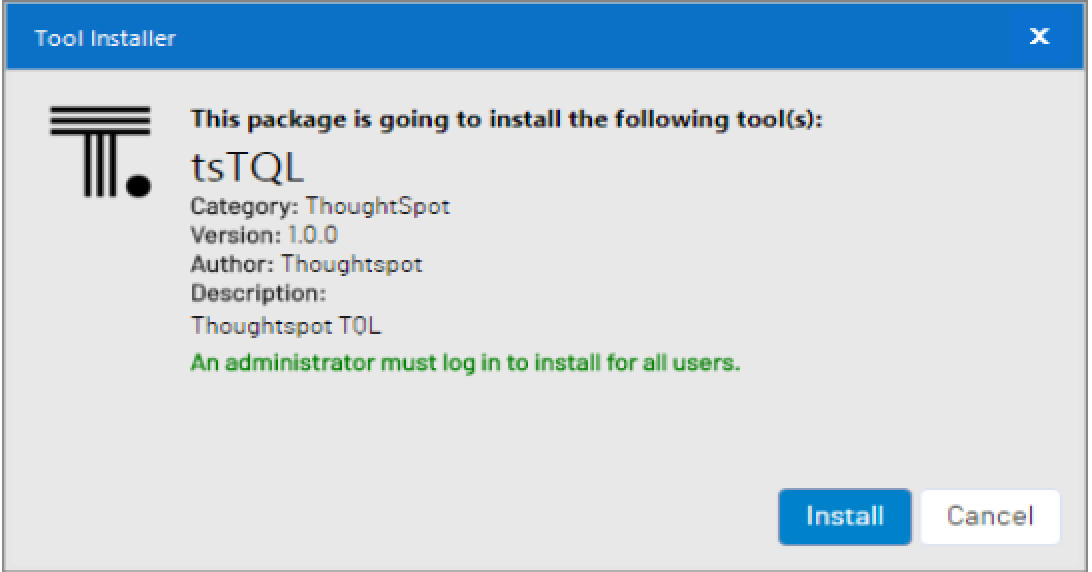
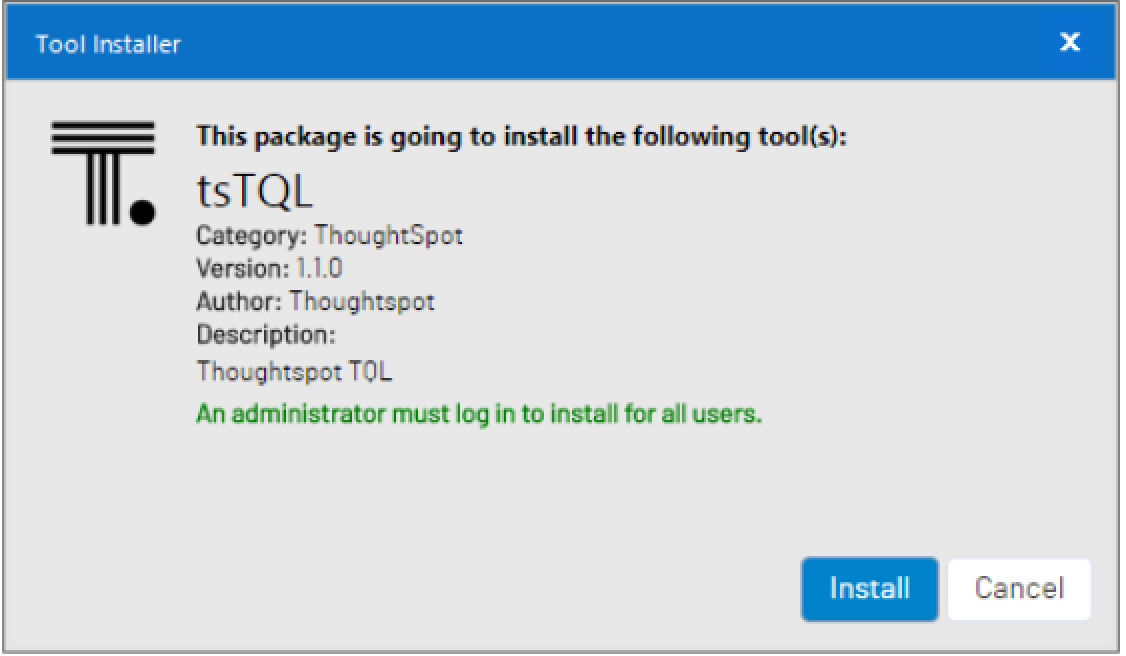
version 1.1

Changed region(s): [[0.0, 0.0, 0.9963, 1.0], [0.1557, 0.2675, 0.685, 0.6538], [0.0311, 0.1783, 0.7473, 0.3566]]

diff --git a/Alteryx_TQL/Code/tsTQL/classes/sshClient.py b/Alteryx_TQL/Code/tsTQL/classes/sshClient.py
@@ -16,6 +16,8 @@ class sshClient(object):
         self.bufsize = 655360
         self.verbose = verbose
         self.logger = None
+        self.status = None
+        self.response = None
         self.__fetch__sshClient()
 
     def __repr__(self):
@@ -43,21 +45,30 @@ class sshClient(object):
             self.transport.window_size = 4294967294
             self.transport.use_compression(self.compress)
             self.transport.set_keepalive(60)
-            self.info('succeeded: %s@%s:%d' % (self.username,
-                                               self.hostname,
-                                               self.port))
+            responsetxt = ('succeeded: %s@%s:%d' % (self.username,
+                                                    self.hostname,
+                                                    self.port))
+            self.info(responsetxt)
+            self.response = responsetxt
+            self.status = "Good"
         except socket.error as e:
             self.transport = None
-            self.info('failed: %s@%s:%d: %s' % (self.username,
-                                                self.hostname,
-                                                self.port,
-                                                str(e)))
-        except paramiko.BadAuthenticationType as e:
+            responsetxt = ('Failed to Connect: %s@%s:%d: %s' % (self.username,
+                                                                self.hostname,
+                                                                self.port,
+                                                                str(e)))
+            self.info(responsetxt)
+            self.response = responsetxt
+            self.status = "Bad"
+        except paramiko.AuthenticationException as e:
             self.transport = None
-            self.info('failed: %s@%s:%d: %s' % (self.username,
-                                                self.hostname,
-                                                self.port,
-                                                str(e)))
+            responsetxt = ('Failed to Authenticate: %s@%s:%d: %s' % (self.username,
+                                                                     self.hostname,
+                                                                     self.port,
+                                                                     str(e)))
+            self.info(responsetxt)
+            self.response = responsetxt
+            self.status = "Bad"
         return self.transport is not None
 
     def close(self):
@@ -66,49 +77,49 @@ class sshClient(object):
             self.ssh.close()
             self.transport = None
 
-    def run(self, cmd, input_data=None, want_exitcode=False, timeout=60000):
-        self.info('running command: %s' % (cmd))
-        if self.transport is None:
-            self.info('no connection to %s@%s:%s' % (str(self.username),
-                                                     str(self.hostname),
-                                                     str(self.port)))
-            return -1, 'ERROR: connection not established\n'
-
-        stdin, stdout, stderr = self.ssh.exec_command(cmd)
-        self.info('executed command')
-        channel = stdout.channel
-        channel.settimeout(None)
-        self._run_send_input(channel,input_data)
-        stdin.close()
-        channel.shutdown_write()
-        self.info('shutdown write channel')
-        stdout_chunks = []
-        stdout_chunks.append(stdout.channel.recv(len(stdout.channel.in_buffer)).decode('utf-8'))
-        self.info('recieving output from command')
-        while not channel.closed or channel.recv_ready() or channel.recv_stderr_ready():
-            got_chunk = False
-            readq, _, _ = select.select([stdout.channel], [], [], timeout)
-            for c in readq:
-                if c.recv_ready():
-                    stdout_chunks.append(stdout.channel.recv(len(c.in_buffer)).decode('utf-8'))
-                    got_chunk = True
-                if c.recv_stderr_ready():
-                    stdout_chunks.append(stderr.channel.recv_stderr(len(c.in_stderr_buffer)))
-                    got_chunk = True
-            if not got_chunk \
-                    and stdout.channel.exit_status_ready() \
-                    and not stderr.channel.recv_stderr_ready() \
-                    and not stdout.channel.recv_ready():
-                stdout.channel.shutdown_read()
-                stdout.channel.close()
-                break
-        stdout.close()
-        stderr.close()
-        self.info('done recieving output')
-        if want_exitcode:
-            return (''.join(str(stdout_chunks)), stdout.channel.recv_exit_status())
-        return ''.join(stdout_chunks)
-        return status, output
+    # def run(self, cmd, input_data=None, want_exitcode=False, timeout=60000):
+    #     self.info('running command: %s' % (cmd))
+    #     if self.transport is None:
+    #         self.info('no connection to %s@%s:%s' % (str(self.username),
+    #                                                  str(self.hostname),
+    #                                                  str(self.port)))
+    #         return -1, 'ERROR: connection not established\n'
+    #
+    #     stdin, stdout, stderr = self.ssh.exec_command(cmd)
+    #     self.info('executed command')
+    #     channel = stdout.channel
+    #     channel.settimeout(None)
+    #     self._run_send_input(channel,input_data)
+    #     stdin.close()
+    #     channel.shutdown_write()
+    #     self.info('shutdown write channel')
+    #     stdout_chunks = []
+    #     stdout_chunks.append(stdout.channel.recv(len(stdout.channel.in_buffer)).decode('utf-8'))
+    #     self.info('recieving output from command')
+    #     while not channel.closed or channel.recv_ready() or channel.recv_stderr_ready():
+    #         got_chunk = False
+    #         readq, _, _ = select.select([stdout.channel], [], [], timeout)
+    #         for c in readq:
+    #             if c.recv_ready():
+    #                 stdout_chunks.append(stdout.channel.recv(len(c.in_buffer)).decode('utf-8'))
+    #                 got_chunk = True
+    #             if c.recv_stderr_ready():
+    #                 stdout_chunks.append(stderr.channel.recv_stderr(len(c.in_stderr_buffer)))
+    #                 got_chunk = True
+    #         if not got_chunk \
+    #                 and stdout.channel.exit_status_ready() \
+    #                 and not stderr.channel.recv_stderr_ready() \
+    #                 and not stdout.channel.recv_ready():
+    #             stdout.channel.shutdown_read()
+    #             stdout.channel.close()
+    #             break
+    #     stdout.close()
+    #     stderr.close()
+    #     self.info('done recieving output')
+    #     if want_exitcode:
+    #         return (''.join(str(stdout_chunks)), stdout.channel.recv_exit_status())
+    #     return ''.join(stdout_chunks)
+    #     return status, output
 
     def set_verbosity(self):
         if self.verbose > 0:

diff --git a/Alteryx_TQL/Code/tsTQL/tsTQL.py b/Alteryx_TQL/Code/tsTQL/tsTQL.py
@@ -3,6 +3,7 @@ import xml.etree.ElementTree as Et
 import select
 import gzip
 import sys
+import socket
 from classes.sshClient import sshClient
 
 class AyxPlugin:
@@ -62,17 +63,17 @@ class AyxPlugin:
             if self.channel.send_ready():
                 self.channel.sendall(compressed)
             return True
-        except:
-            self.xmsg("Error", "Error sending Data")
-            self.stdin.close()
-            self.channel.shutdown_write()
-            self.xmsg('Info', 'Completed Sending Commands')
-            self.writeChunks(600)
-            self.sshConnection.close()
-            self.xmsg('Info', 'Connection with Destination Closed')
-            self.output_anchor.assert_close()
-            self.information_anchor.assert_close()
-            sys.exit()
+        except socket.error as e:
+            self.xmsg("Error", "Error sending Commands")
+            self.xmsg("error", "Error message: &s" % str(e))
+            # self.stdin.close()
+            # self.channel.shutdown_write()
+            # self.xmsg('Info', 'Completed Sending Commands')
+            # self.writeChunks(600)
+            # self.sshConnection.close()
+            # self.xmsg('Info', 'Connection with Destination Closed')
+            # self.output_anchor.assert_close()
+            # self.information_anchor.assert_close()
             return False
 
     def writeChunks(self,intimeout=30):
@@ -194,32 +195,40 @@ class AyxPlugin:
 
             self.sshConnection = sshClient(self.destinationServer, self.userName, self.password,
                                         22, True, True)
-            if self.sshConnection is None:
-                self.xmsg('Info', 'Error with SSH Connection')
+            if self.sshConnection.status == 'Bad':
+                self.xmsg('Error', 'A Connection could not be Established')
+                self.xmsg('Error', self.sshConnection.response)
                 return False
             else:
-                self.xmsg('Info', 'Connection with Destination Established')
+                self.xmsg('Info', 'Connection Established with Server')
 
             cmd = 'gzip -dc | tql --query_results_apply_top_row_count 0 --null_string ""'
             #  cmd = 'tql --query_results_apply_top_row_count 0 --pagination_size 1000000 --null_string ""'
 
             self.xmsg('Info', cmd)
-            self.stdin, self.stdout, self.stderr = self.sshConnection.ssh.exec_command(cmd)
-            self.xmsg('Info', 'Executing Command')
-            self.channel = self.stdout.channel
-            self.channel.settimeout(None)
-            if self.tqlStatements is not None:
-                lines = self.tqlStatements.splitlines()
-                for line in lines:
-                    self.xmsg('Info',line)
-                self.write_lists_to_TS(self.tqlStatements)
-            elif self.tqlFilePath is not None:
-                with open(self.tqlFilePath,'r') as myFile:
-                    lines = "".join(line for line in myFile)
-                myFile.close()
-                for line in lines.splitlines():
-                    self.xmsg('Info',line)
-                self.write_lists_to_TS(lines)
+            try:
+                self.stdin, self.stdout, self.stderr = self.sshConnection.ssh.exec_command(cmd)
+                self.xmsg('Info', 'Executing Command')
+                self.channel = self.stdout.channel
+                self.channel.settimeout(None)
+                if self.tqlStatements is not None:
+                    lines = self.tqlStatements.splitlines()
+                    for line in lines:
+                        self.xmsg('Info', line)
+                    if not self.write_lists_to_TS(self.tqlStatements):
+                        return False
+                elif self.tqlFilePath is not None:
+                    with open(self.tqlFilePath, 'r') as myFile:
+                        lines = "".join(line for line in myFile)
+                    myFile.close()
+                    for line in lines.splitlines():
+                        self.xmsg('Info', line)
+                    if not self.write_lists_to_TS(lines):
+                        return False
+            except socket.error as e:
+                self.parent.xmsg('Error', 'An Error Occured during the execution of the Statements')
+                self.parent.xmsg('Error', 'Error: %s' % str(e))
+                return False
         return True
 
     def pi_close(self, b_has_errors: bool):
@@ -228,10 +237,11 @@ class AyxPlugin:
         :param b_has_errors: Set to true to not do the final processing.
         """
         if self.alteryx_engine.get_init_var(self.n_tool_id, 'UpdateOnly') == 'False':
-            self.stdin.close()
-            self.channel.shutdown_write()
-            self.xmsg('Info', 'Completed Sending Commands')
-            self.writeChunks(600)
+            if self.sshConnection.status == "Good":
+                self.stdin.close()
+                self.channel.shutdown_write()
+                self.xmsg('Info', 'Completed Sending Commands')
+                self.writeChunks(600)
             self.sshConnection.close()
             self.xmsg('Info', 'Connection with Destination Closed')
             self.output_anchor.assert_close()

diff --git a/Alteryx_TQL/readme.md b/Alteryx_TQL/readme.md
@@ -70,9 +70,14 @@ Please read [Contributing.md](Contributing.md) for details on our code of conduc
 
 We use [SemVer](http://semver.org/) for versioning. For the versions available, see the [tags on this repository](https://github.com/thoughtspot/community-tools/tsLoad/tags).
 
+Version 1.0.0 - Initial Release
+
+Version 1.1.0 - Better Error Handling
+
 # Future Versions
 
-- Error Handling
+- Select statements create a flow for other Alteryx tools
+- Input statements as a part of the inflow
 
 # Authors
 
